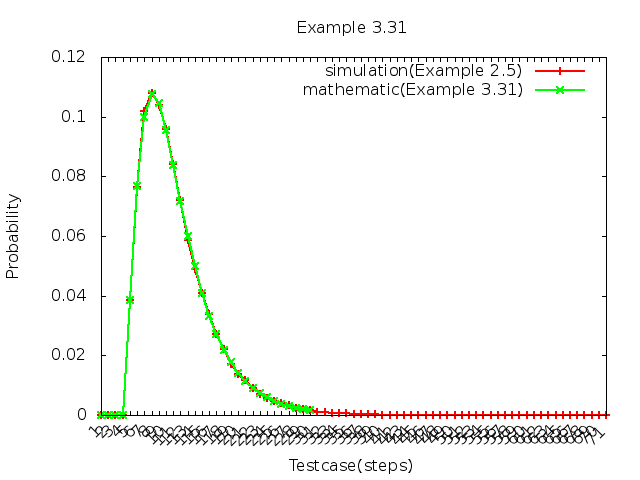
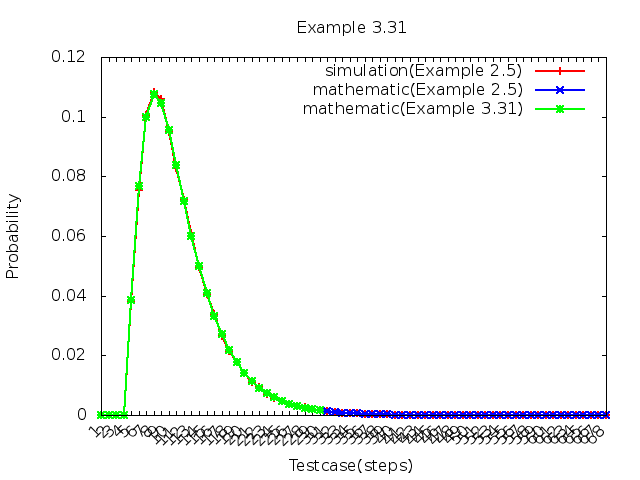
Add time complexity analysis.

diff --git a/example3.31/README.md b/example3.31/README.md
@@ -11,6 +11,8 @@ Instead of using venn diagram to solve this problem, example 3.31 using `conditi
     - [Run the program](#run-the-program)
     - [Result](#result)
     - [Comparison/Time Complexity](#comparisontime-complexity)
+        - [Formula](#formula)
+        - [Time Complexity](#time-complexity)
     - [Author](#author)
 
 <!-- /TOC -->
@@ -36,10 +38,10 @@ Instead of using venn diagram to solve this problem, example 3.31 using `conditi
 
 * Let's see the content in `Makefile`:
     * **First**:
-        * Compile mathematic model program ( under `example 3.31` ) and the simulation program ( under `example 2.5` )
+        * Compile the new mathematic model program ( under `example 3.31` ) , mathematic model program ( under `example 2.5` ),and the simulation program ( under `example 2.5` )
     * **Second**:
         * Similar to the demo in `example 2.5`, we run the simulation program first, and store the result into `simulation.output`.
-        * And then run the mathematic model program, and directly pipe its output content into `mathematic.output`.
+        * And then run the mathematic model program (both `2.5` and `3.31`), and directly pipe their output content into `mathematic.output`,`mathematic_3_31.output` respectively.
     * **Last**:
         * After generating all the result into output file with specified format, then we can using the gnuplot script - `result.gp` to plot the result into `PNG` format.
 
@@ -53,7 +55,9 @@ Instead of using venn diagram to solve this problem, example 3.31 using `conditi
 
 ## Comparison/Time Complexity
 
-> This part will need to install the chrome extension: [**`Github with MathJax`**](https://chrome.google.com/webstore/detail/github-with-mathjax/ioemnmodlmafdkllaclgeombjnmnbima/related), then can see the correct mathematic formula
+> This part will need to install the chrome extension: [**`Github with MathJax`**](https://chrome.google.com/webstore/detail/github-with-mathjax/ioemnmodlmafdkllaclgeombjnmnbima/related), then can see the correct mathematic formula 
+
+### Formula 
 
 * We can now see the mathematic model between 2 example (e.g. `2.5` & `3.31`)
 
@@ -67,6 +71,15 @@ $$P(m,r) = \sum_{j=1}^{m-r+1} P(m-j,r-1) \cdot C_j^m \cdot ( \frac{P_r}{\sum_{j=
 
 $$Starting \ from: P(m,1) = 1, if \ m>=1 ; P(m,1) = 0, if \ m==0$$
 
+### Time Complexity
+
+* *Mathematic model in `Example 2.5`*: 
+$$O(M^n)$$
+
+* *Mathematic model in `Example 3.31`*:
+    * Time complexity of recursive function : $$O(N)$$
+
+    * So the result should be: $$O(N \cdot M^n)$$
 
 ## Author
 
